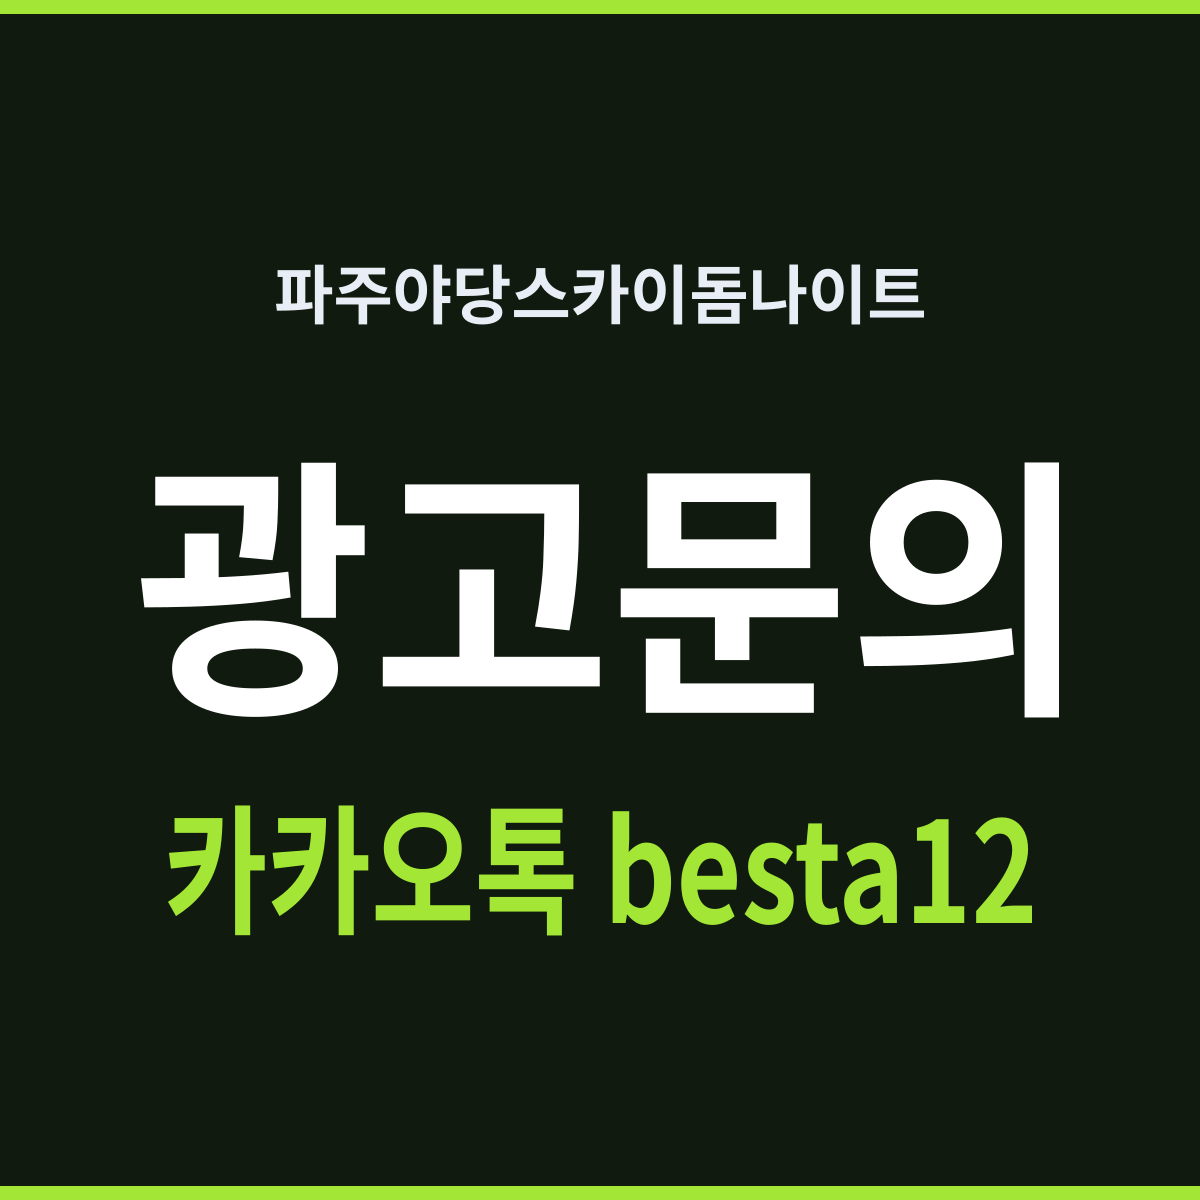
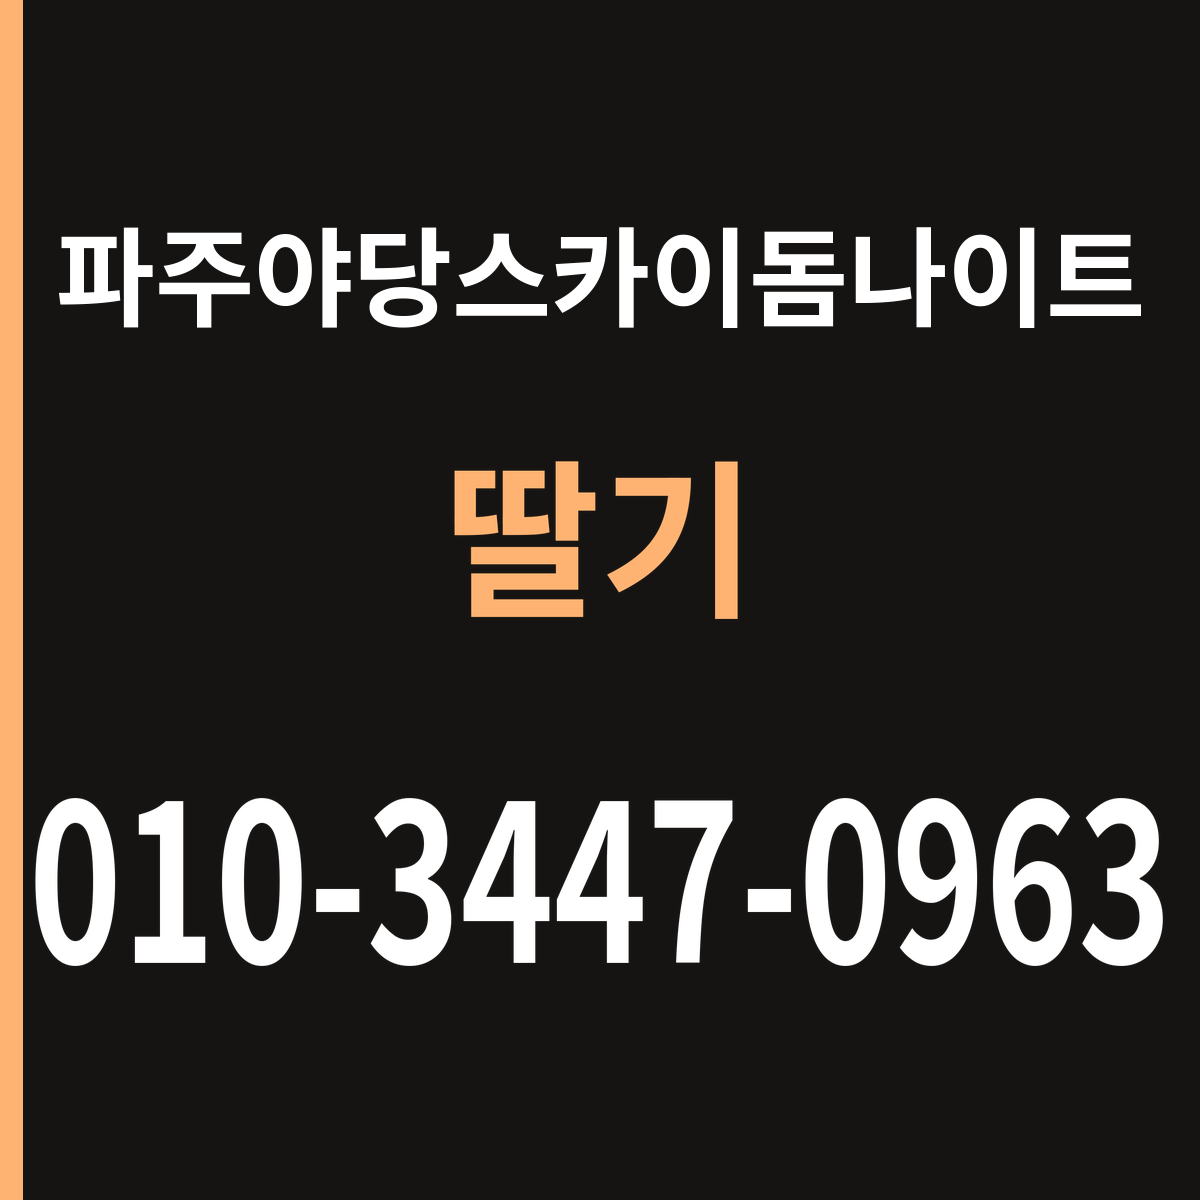
파주야당스카이돔나이트 광고주 등록 (딸기 010-3447-0963)
신규 광고주. 자료·검문 정답표·썸네일을 함께 넣었다.
데이터만 고치면 검문에서 막히므로 정답표도 같이 고친다.
썸네일은 가게이름/닉네임/번호 3줄로 다시 그렸다.

Claude-Session: https://claude.ai/code/session_01FbqrSA48sxxzHnqBxy1oXP

diff --git a/area/paju-yadang-skydome/index.html b/area/paju-yadang-skydome/index.html
@@ -4,12 +4,12 @@
 <meta charset="UTF-8">
 <meta name="viewport" content="width=device-width, initial-scale=1, viewport-fit=cover">
 <title>파주야당스카이돔나이트, 신도시의 밤은 짧다</title>
-<meta name="description" content="파주야당스카이돔나이트는 야당역 도보권으로 확인된다. 파주나이트의 밤이 왜 늦게 시작해 빨리 닫히는지 구간별로 하나씩 정리했다.">
+<meta name="description" content="파주야당스카이돔나이트는 신도시 상권이라 밤의 결이 다르다. 방문 전 확인은 딸기 010-3447-0963 로 하면 된다.">
 <meta name="robots" content="index,follow,max-image-preview:large,max-snippet:-1">
 <link rel="canonical" href="https://e.nolcool.com/area/paju-yadang-skydome/">
 <meta property="og:type" content="article">
 <meta property="og:title" content="파주야당스카이돔나이트, 신도시의 밤은 짧다">
-<meta property="og:description" content="파주야당스카이돔나이트는 야당역 도보권으로 확인된다. 파주나이트의 밤이 왜 늦게 시작해 빨리 닫히는지 구간별로 하나씩 정리했다.">
+<meta property="og:description" content="파주야당스카이돔나이트는 신도시 상권이라 밤의 결이 다르다. 방문 전 확인은 딸기 010-3447-0963 로 하면 된다.">
 <meta property="og:url" content="https://e.nolcool.com/area/paju-yadang-skydome/">
 <meta property="og:site_name" content="밤 시간표 연구소">
 <meta property="og:locale" content="ko_KR">
@@ -21,7 +21,7 @@
 <meta property="og:image:alt" content="파주야당스카이돔나이트 시간표 정리 카드 — 광고문의 카카오톡 besta12">
 <meta name="twitter:card" content="summary">
 <meta name="twitter:title" content="파주야당스카이돔나이트, 신도시의 밤은 짧다">
-<meta name="twitter:description" content="파주야당스카이돔나이트는 야당역 도보권으로 확인된다. 파주나이트의 밤이 왜 늦게 시작해 빨리 닫히는지 구간별로 하나씩 정리했다.">
+<meta name="twitter:description" content="파주야당스카이돔나이트는 신도시 상권이라 밤의 결이 다르다. 방문 전 확인은 딸기 010-3447-0963 로 하면 된다.">
 <meta name="twitter:image" content="https://e.nolcool.com/og/time-paju-yadang-skydome.png">
 <meta name="thumbnail" content="https://e.nolcool.com/og/time-paju-yadang-skydome.png">
 <meta name="google-site-verification" content="HJjm7MRxykCQ7d_9L7glaTeeaWrmJIzAKY0BcNcfm88">
@@ -31,7 +31,7 @@
 <link rel="icon" href="/favicon.svg" type="image/svg+xml">
 <link rel="apple-touch-icon" href="/apple-touch-icon.png">
 <link rel="stylesheet" href="/time.css">
-<script type="application/ld+json">{"@context":"https://schema.org","@type":"NightClub","@id":"https://e.nolcool.com/area/paju-yadang-skydome/#nightclub","name":"파주야당스카이돔나이트","url":"https://e.nolcool.com/area/paju-yadang-skydome/","image":"https://e.nolcool.com/og/time-paju-yadang-skydome.png","description":"파주야당스카이돔나이트는 야당역 도보권으로 확인된다. 파주나이트의 밤이 왜 늦게 시작해 빨리 닫히는지 구간별로 하나씩 정리했다.","address":{"@type":"PostalAddress","streetAddress":"경기 파주시 소리천로 25 (야당동 1083)","addressLocality":"파주시","addressRegion":"경기도","addressCountry":"KR"}}</script>
+<script type="application/ld+json">{"@context": "https://schema.org", "@type": "NightClub", "@id": "https://e.nolcool.com/area/paju-yadang-skydome/#nightclub", "name": "파주야당스카이돔나이트", "telephone": "010-3447-0963", "url": "https://e.nolcool.com/area/paju-yadang-skydome/", "image": "https://e.nolcool.com/og/time-paju-yadang-skydome.png", "description": "파주야당스카이돔나이트는 야당역 도보권으로 확인된다. 파주나이트의 밤이 왜 늦게 시작해 빨리 닫히는지 구간별로 하나씩 정리했다.", "address": {"@type": "PostalAddress", "streetAddress": "경기 파주시 소리천로 25 (야당동 1083)", "addressLocality": "파주시", "addressRegion": "경기도", "addressCountry": "KR"}}</script>
 <script type="application/ld+json">{"@context":"https://schema.org","@type":"FAQPage","@id":"https://e.nolcool.com/area/paju-yadang-skydome/#faq","mainEntity":[{"@type":"Question","name":"파주야당스카이돔나이트는 어디에 있나요?","acceptedAnswer":{"@type":"Answer","text":"공개 자료 기준 경기 파주시 소리천로 25, 지번 야당동 1083 유은7차로 확인됩니다. 야당역 2번 출구에서 도보 3분 거리로 안내됩니다."}},{"@type":"Question","name":"왜 밤이 짧게 느껴지나요?","acceptedAnswer":{"@type":"Answer","text":"저녁 시간이 길어 시작이 늦고, 귀가 거리가 짧아 마무리가 빠르기 때문입니다. 앞뒤에서 동시에 눌리는 구조입니다."}},{"@type":"Question","name":"평일에 가도 되나요?","acceptedAnswer":{"@type":"Answer","text":"평일은 밤 전체가 더 짧아집니다. 목표 구간을 하나만 정하고 가는 편이 만족도가 높습니다."}}]}</script>
 <script type="application/ld+json">{"@context":"https://schema.org","@type":"BreadcrumbList","@id":"https://e.nolcool.com/area/paju-yadang-skydome/#breadcrumb","itemListElement":[{"@type":"ListItem","position":1,"name":"전국 나이트 시간표 40","item":"https://e.nolcool.com/area/time/"},{"@type":"ListItem","position":2,"name":"파주야당스카이돔나이트","item":"https://e.nolcool.com/area/paju-yadang-skydome/"}]}</script>
 </head>
@@ -45,7 +45,8 @@
       <li>파주야당스카이돔나이트</li>
     </ol></nav>
     <span class="tag">경기 파주시 야당동</span>
-    <h1>파주야당스카이돔나이트, 신도시의 밤은 짧다</h1>
+    <p class="ad-label" style="margin:0 0 10px;display:inline-block;padding:3px 10px;border:1px solid #c9a227;border-radius:4px;font-size:12px;color:#c9a227">광고</p>
+<h1>파주야당스카이돔나이트, 신도시의 밤은 짧다</h1>
   </div>
 </header>
 
@@ -65,9 +66,11 @@
       <li>대신 귀가 거리가 짧아 마무리가 빠르게 진행된다.</li>
       <li>운영 시간과 요금은 공개 자료로 확인되지 않는다. 방문 전 확인이 필요하다.</li>
     </ul>
-  </div>
+  
+<p>짧은 밤을 알차게 쓰시려면 도착 시각을 미리 맞춰 두는 편이 낫습니다. 딸기 010-3447-0963 로 말씀해 두시면 그 시간에 맞춰 준비됩니다.</p>
+</div>
 
-  <img src="/og/time-paju-yadang-skydome.png" alt="파주야당스카이돔나이트 신도시의 밤은 짧다" width="1200" height="1200" style="max-width:100%;height:auto" loading="eager">
+  <img src="/og/time-paju-yadang-skydome.png" alt="파주야당스카이돔나이트 예약문의 딸기 010-3447-0963" width="1200" height="1200" style="max-width:100%;height:auto" loading="eager">
 
   <div class="tablewrap">
   <table>
@@ -173,6 +176,9 @@
 <div class="callbar"><a href="https://open.kakao.com/o/sBesta12" rel="nofollow">💬 제휴 창구 카톡 besta12</a></div>
 
 <p class="age-notice" style="margin:18px 0 0;font-size:13px;line-height:1.7;color:#9aa0a6">이 안내는 성인(만 19세 이상)을 대상으로 합니다. 청소년 출입·고용 금지 업소입니다.</p>
-<p class="rel-notice" style="margin:8px 0 0;font-size:13px;line-height:1.7;color:#9aa0a6">특정 업소 소속이 아닌 정보 제공 페이지입니다. 공개된 내용만 담았습니다.</p>
+<p class="rel-notice" style="margin:8px 0 0;font-size:13px;line-height:1.7;color:#9aa0a6">이 페이지는 광고입니다. 업소가 제공한 정보를 싣습니다. 확인일 2026-09-02.</p>
+<p class="ad-inquiry" style="margin:16px 0 0;font-size:16px;font-weight:700;text-align:center">광고문의 카톡 besta12</p>
+<div class="ad-phonebar" style="position:fixed;left:0;right:0;bottom:0;z-index:99;background:#111;padding:12px 10px;text-align:center;font-size:16px;font-weight:700"><a href="tel:01034470963" style="display:block;color:#fff;text-decoration:none">📞 파주야당스카이돔나이트 예약 · 딸기 010-3447-0963</a></div>
+<div style="height:64px"></div>
 </body>
 </html>
